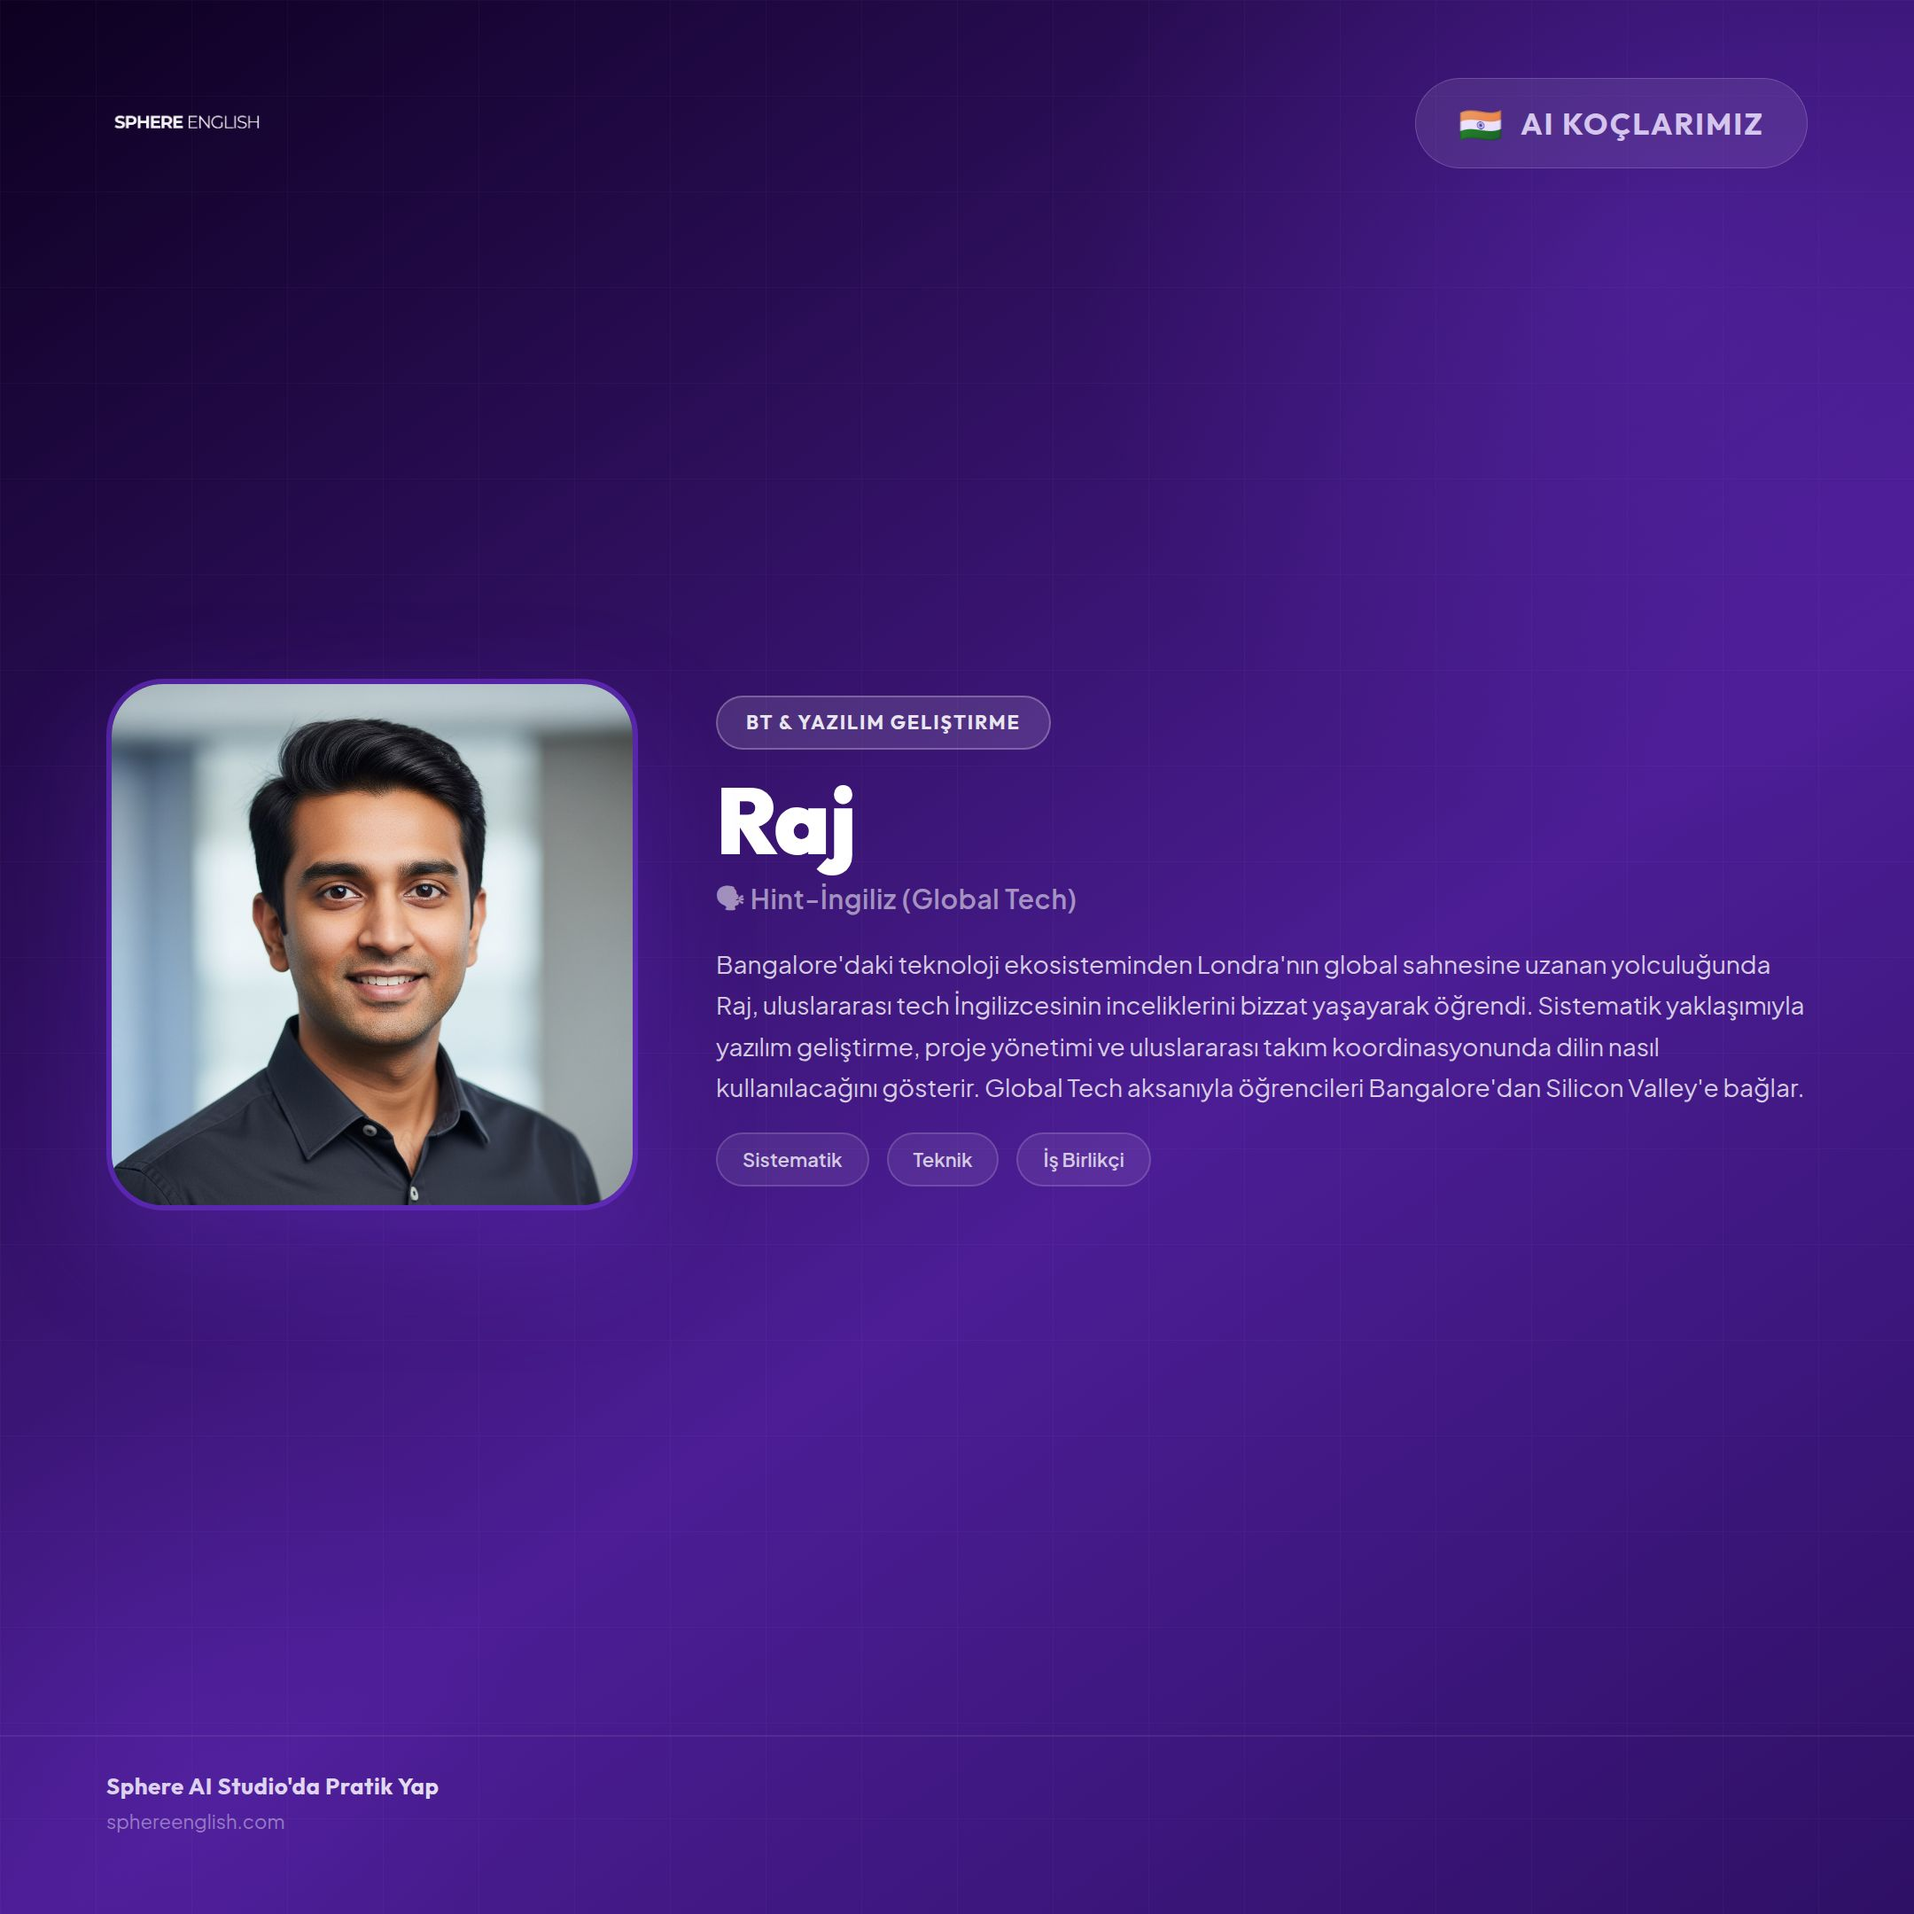
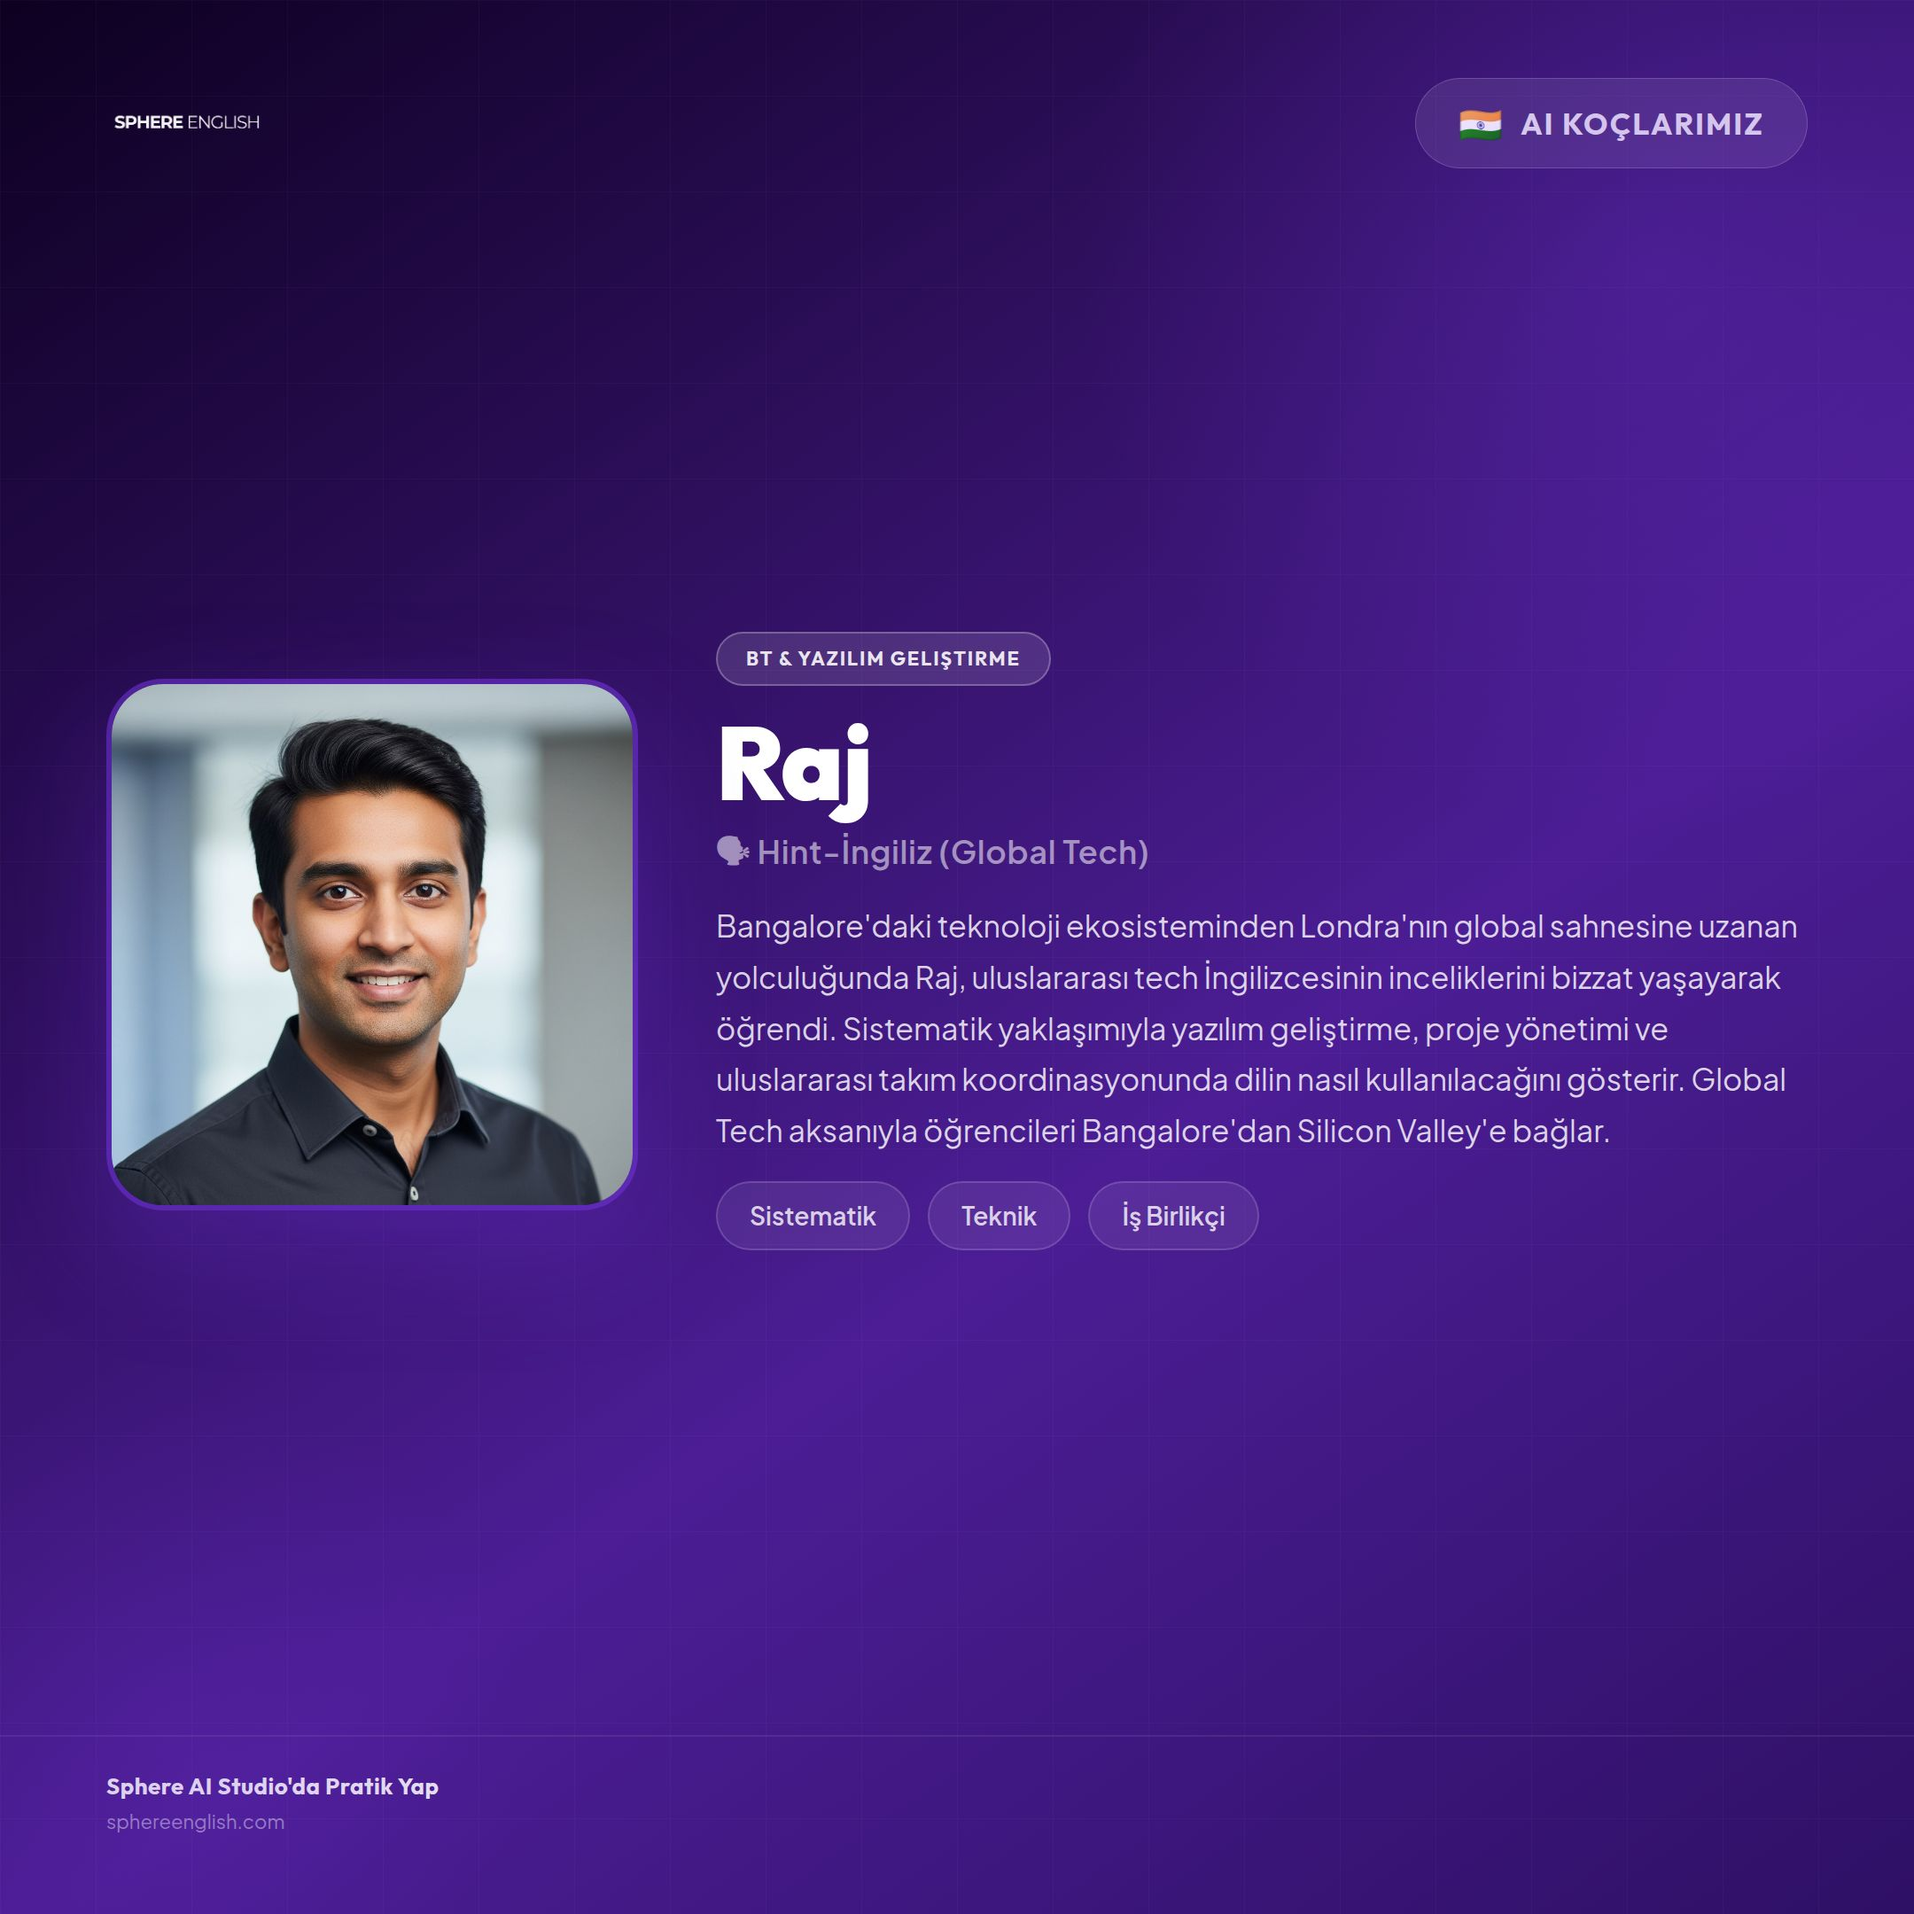
Improve text readability by increasing font sizes across all coach profiles
Adjusted font sizes for coach names, accents, stories, and traits in CoachPost.tsx to enhance readability, along with updating associated image assets.

Replit-Commit-Author: Agent
Replit-Commit-Session-Id: 7828208e-226c-43ef-9a3e-875997ce7956
Replit-Commit-Checkpoint-Type: full_checkpoint
Replit-Commit-Event-Id: 037c4095-09a3-45ac-9b69-dc6d8c7ddbaa
Replit-Commit-Screenshot-Url: https://storage.googleapis.com/screenshot-production-us-central1/f780e6cf-cd3b-477f-8b05-3e4b163e7069/7828208e-226c-43ef-9a3e-875997ce7956/GKkrIT7
Replit-Helium-Checkpoint-Created: true

Changed region(s): [[0.3722, 0.3102, 0.9306, 0.6514]]

diff --git a/artifacts/mockup-sandbox/src/components/mockups/instagram-post/CoachPost.tsx b/artifacts/mockup-sandbox/src/components/mockups/instagram-post/CoachPost.tsx
@@ -220,20 +220,20 @@ export default function CoachPost() {
 
           {/* Name */}
           <div>
-            <h2 style={{ fontFamily:"'Outfit',sans-serif", fontWeight:900, fontSize:px(52),
+            <h2 style={{ fontFamily:"'Outfit',sans-serif", fontWeight:900, fontSize:px(58),
               color:"#fff", margin:0, lineHeight:1.0, letterSpacing:"-0.02em" }}>
               {coach.name}
             </h2>
-            <p style={{ fontFamily:"'Plus Jakarta Sans',sans-serif", fontWeight:600, fontSize:px(15),
-              color:"rgba(255,255,255,0.55)", margin:`${px(7)}px 0 0`, letterSpacing:"0.02em" }}>
+            <p style={{ fontFamily:"'Plus Jakarta Sans',sans-serif", fontWeight:600, fontSize:px(18),
+              color:"rgba(255,255,255,0.55)", margin:`${px(8)}px 0 0`, letterSpacing:"0.02em" }}>
               🗣 {coach.accent}
             </p>
           </div>
 
           {/* Story */}
           <p style={{
-            fontFamily:"'Plus Jakarta Sans',sans-serif", fontWeight:400, fontSize:px(14),
-            color:"rgba(255,255,255,0.80)", lineHeight:1.65, margin:0,
+            fontFamily:"'Plus Jakarta Sans',sans-serif", fontWeight:400, fontSize:px(17),
+            color:"rgba(255,255,255,0.82)", lineHeight:1.70, margin:0,
           }}>
             {coach.story}
           </p>
@@ -242,11 +242,11 @@ export default function CoachPost() {
           <div style={{ display:"flex", gap:px(10), flexWrap:"wrap" }}>
             {coach.traits.map(t => (
               <span key={t} style={{
-                fontFamily:"'Plus Jakarta Sans',sans-serif", fontWeight:600, fontSize:px(11),
-                color:"rgba(255,255,255,0.75)",
+                fontFamily:"'Plus Jakarta Sans',sans-serif", fontWeight:600, fontSize:px(14),
+                color:"rgba(255,255,255,0.80)",
                 background:"rgba(255,255,255,0.08)",
                 border:`${px(1)}px solid rgba(255,255,255,0.15)`,
-                borderRadius:px(100), padding:`${px(6)}px ${px(14)}px`,
+                borderRadius:px(100), padding:`${px(8)}px ${px(18)}px`,
               }}>
                 {t}
               </span>
